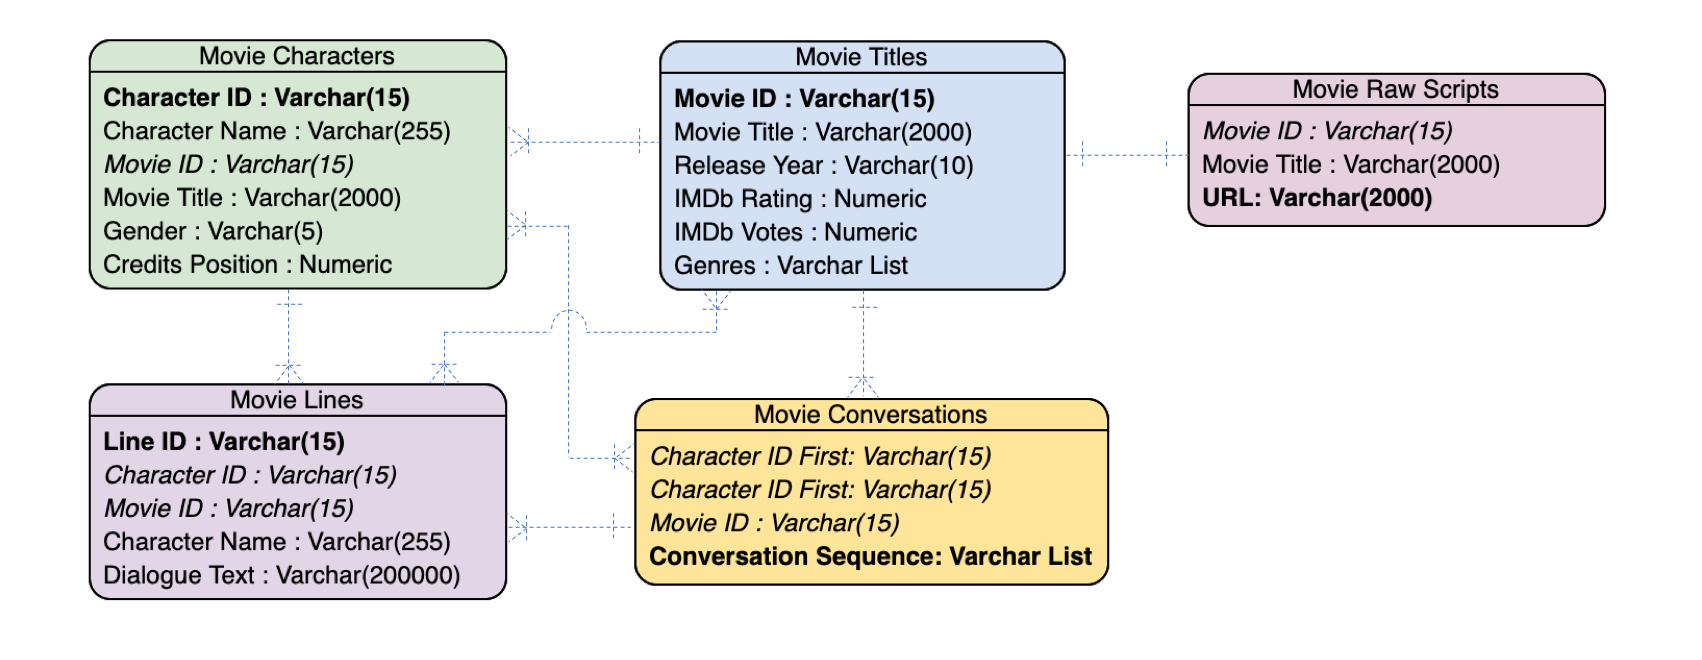
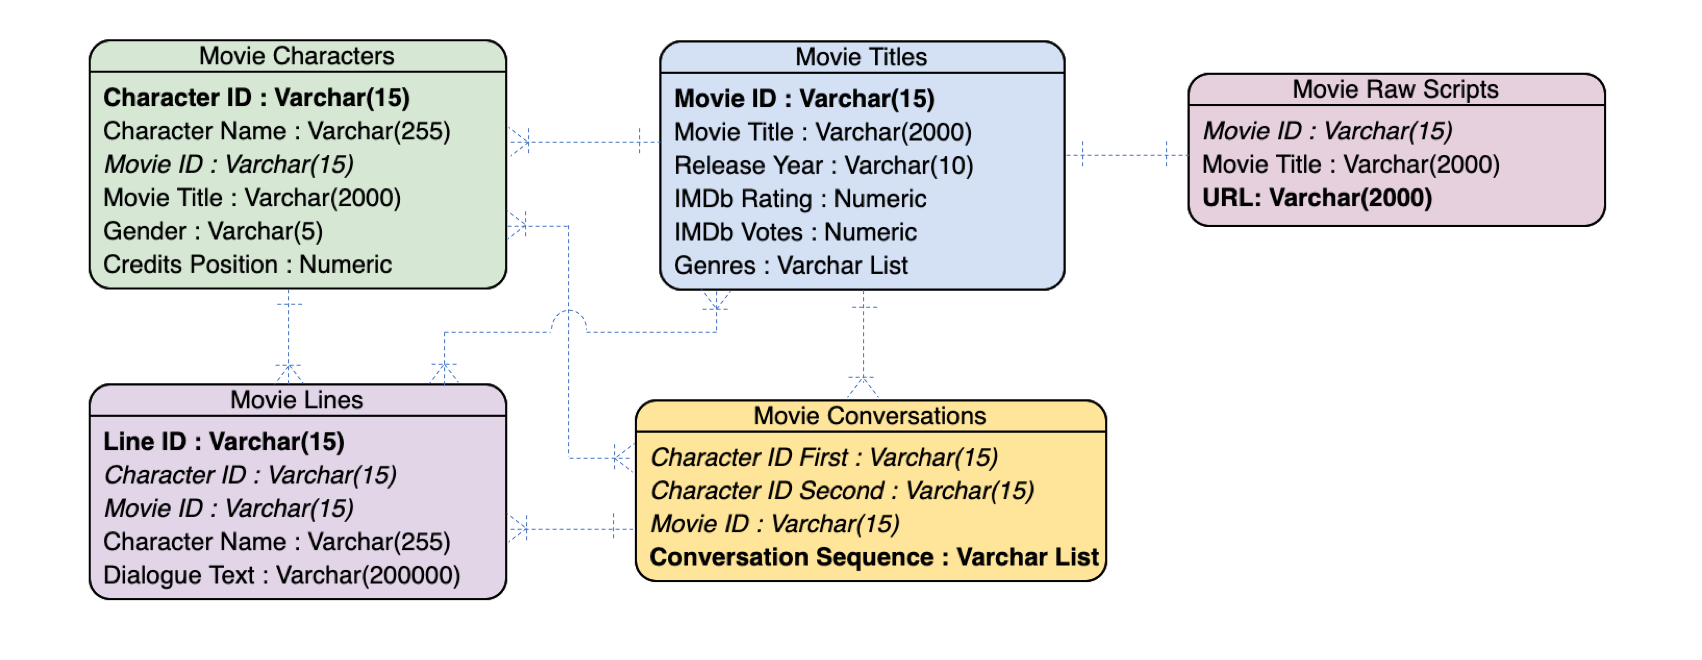
Adding primary keys

Changed region(s): [[0.3114, 0.5758, 0.6539, 0.9091]]

diff --git a/Analysis.py b/Analysis.py
@@ -1,16 +1,21 @@
 import pandas as pd
 
-tabMovieTitles = pd.read_csv("Data/MovieTitles.csv", sep="|", encoding="ISO-8859-1", header=None)
+tabMovieTitles = pd.read_csv("Data/MovieTitles.csv", sep="|", encoding="ISO-8859-1", header=None, names=["Movie ID", "Movie Title", "Year", "IMDb Rating", "IMDb Votes", "Genres"])
 print(tabMovieTitles.shape)
+print(tabMovieTitles.head())
 
 tabMovieCharacters = pd.read_csv("Data/MovieCharacters.csv", sep="|", encoding="ISO-8859-1", header=None)
 print(tabMovieCharacters.shape)
 
 tabMovieLines = pd.read_csv("Data/MovieLines.csv", sep="|", encoding="ISO-8859-1", header=None)
 print(tabMovieLines.shape)
-
+print(tabMovieLines.columns)
 tabMovieConversations = pd.read_csv("Data/MovieConversations.csv", sep="|", encoding="ISO-8859-1", header=None)
 print(tabMovieConversations.shape)
 
 tabMovieRawScriptURLs = pd.read_csv("Data/MovieRawScriptURLs.csv", sep="|", encoding="ISO-8859-1", header=None)
 print(tabMovieRawScriptURLs.shape)
+
+print(tabMovieLines.columns)
+print(df['Borough'].value_counts(dropna=False))
+

diff --git a/Report.md b/Report.md
@@ -78,54 +78,119 @@ Run the following scripts to import the data from your repository and check the 
 __Movie Titles__
 
 ```python
-tabMovieTitles = pd.read_csv(file="Data/MovieTitles.csv", sep="|", encoding="ISO-8859-1", header=None)
+tabMovieTitles = pd.read_csv(file="Data/MovieTitles.csv", sep="|", encoding="ISO-8859-1", header=None, names=["Movie ID", "Movie Title", "Year", "IMDb Rating", "IMDb Votes", "Genres"])
 ```
 
+Setting primary key
+```python
+tabMovieTitles.set_index("Movie ID")
+```
 
+Table shape
 ```python
 print(tabMovieTitles.shape)
+```
+
+Table columns
+```python
+print(tabMovieTitles.columns)
+```
+
+Table information
+```python
+print(tabMovieTitles.info())
 ```
 
 __Movie Characters__
 
 ```python
-tabMovieCharacters = pd.read_csv(file="Data/MovieCharacters.csv", sep="|", encoding="ISO-8859-1", header=None)
+tabMovieCharacters = pd.read_csv(file="Data/MovieCharacters.csv", sep="|", encoding="ISO-8859-1", header=None, names=["Character ID", "Character Name", "Movie ID", "Movie Title", "Gender", "Position"])
 ```
 
+Setting primary key
+```python
+tabMovieCharacters.set_index("Character ID")
+```
 
+Table shape
 ```python
 print(tabMovieCharacters.shape)
+```
+
+Table columns
+```python
+print(tabMovieCharacters.columns)
+```
+
+Table information
+```python
+print(tabMovieCharacters.info())
 ```
 
 __Movie Lines__
 
 ```python
-tabMovieLines = pd.read_csv(file="Data/MovieLines.csv", sep="|", encoding="ISO-8859-1", header=None)
+tabMovieLines = pd.read_csv(file="Data/MovieLines.csv", sep="|", encoding="ISO-8859-1", header=None, names=["Line ID", "Character ID", "Movie ID", "Character Name", "Dialogue"])
 ```
 
+Setting primary key
+```python
+tabMovieLines.set_index("Line ID")
+```
 
+Table shape
 ```python
 print(tabMovieLines.shape)
+```
+
+Table columns
+```python
+print(tabMovieLines.columns)
+```
+
+Table information
+```python
+print(tabMovieLines.info())
 ```
 
 __Movie Conversations__
 
 ```python
-tabMovieConversations = pd.read_csv(file="Data/MovieConversations.csv", encoding="ISO-8859-1", sep="|", header=None)
+tabMovieConversations = pd.read_csv(file="Data/MovieConversations.csv", encoding="ISO-8859-1", sep="|", header=None, names=["Character ID", "First Character", "ID Second", "Movie ID", "Conversation"])
 ```
 
+Setting primary key
+```python
+tabMovieConversations.set_index("Conversation")
+```
 
+Table shape
 ```python
 print(tabMovieConversations.shape)
+```
+
+Table columns
+```python
+print(tabMovieConversations.columns)
+```
+
+Table information
+```python
+print(tabMovieConversations.info())
 ```
 
 __Movie Raw Script URLs__
 
 ```python
-tabMovieRawScriptURLs = pd.read_csv(file="Data/MovieRawScriptURLs.csv", encoding="ISO-8859-1", sep="|", header=None)
+tabMovieRawScriptURLs = pd.read_csv(file="Data/MovieRawScriptURLs.csv", encoding="ISO-8859-1", sep="|", header=None, names=["Movie ID", "Movie Title", "Raw Script URL"])
 ```
 
-
+Setting primary key
 ```python
-print(tabMovieRawScriptURLs.shape)
+tabMovieRawScriptURLs.set_index("Raw Script URL")
+```
+
+Table shape
+```python
+print(tabMovieConversations.shape)
 ```
